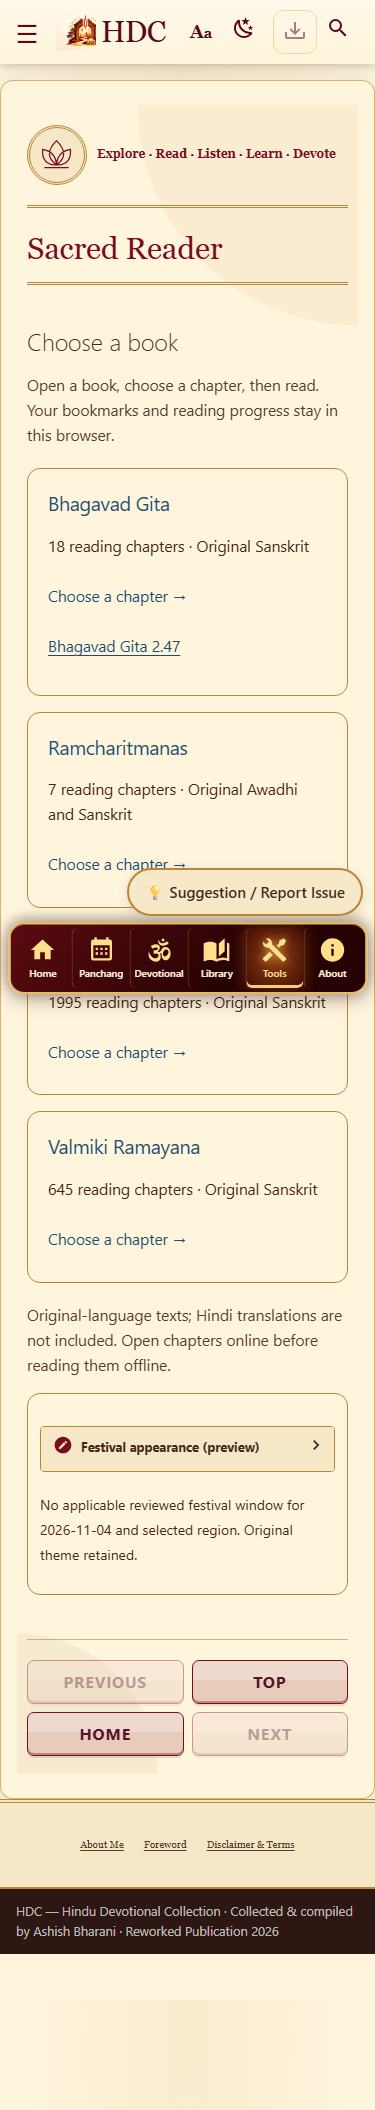
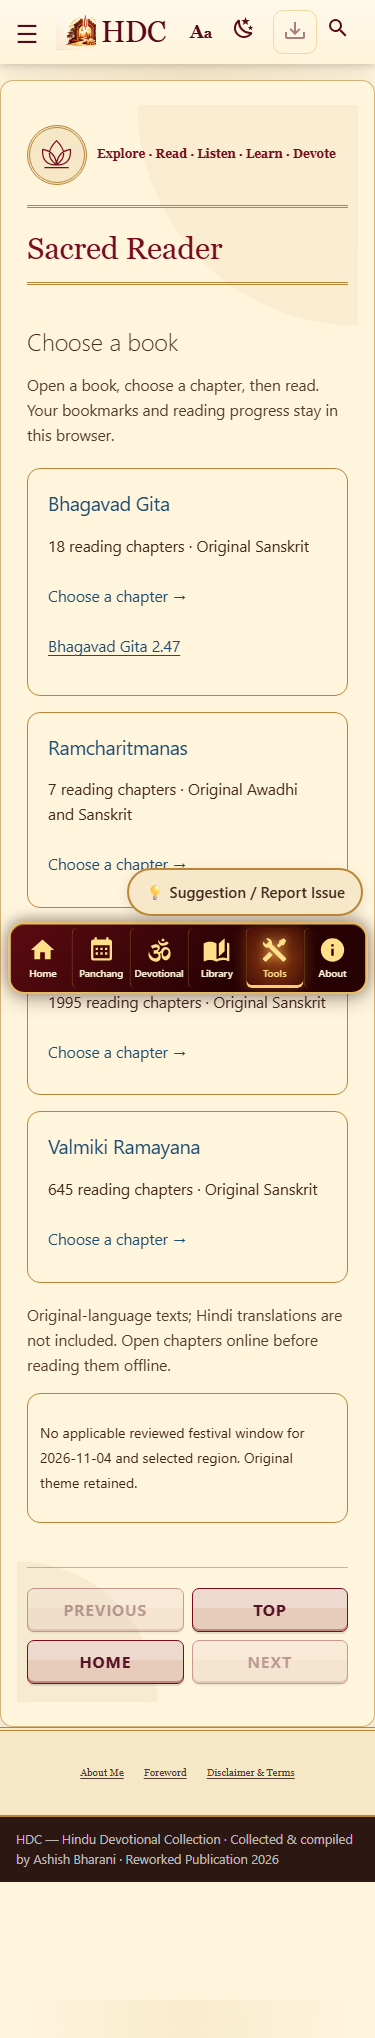
Open Reader options in offline upgrade regression

diff --git a/review/reader-epics-navigation-2026-11-04.md b/review/reader-epics-navigation-2026-11-04.md
@@ -57,3 +57,18 @@ screenshots are in scripts/fixtures/reader-cleanup-review. Catalogue/engine diff
 is empty and the built Reader runtime matches its source. Remaining existing
 regressions and final exact-head GitHub CI must pass before merging; this note
 records that pre-merge checkpoint and does not claim production deployment.
+
+## Latest-main integration checkpoint
+
+Main advanced with the approved retirement of Sanctuary and festival-preview
+controls. That main state is preserved in merge head 69df1e4. Its local strict
+build passed in 298.33 seconds. Fresh six-viewport/theme epic navigation,
+endpoint, legacy-link, bookmark and real offline checks passed; cleanup checks
+passed at 375/1440px and the after screenshots were refreshed.
+
+The fresh CI upgrade test reached the intentionally collapsed Reader options
+panel without opening it, so its search fill correctly timed out. The test now
+clicks the visible summary before filling; its offline interactivity, failed
+update, successful update, cache retirement and saved-state assertions are
+unchanged. That focused regression passes locally. Full exact-head CI remains
+a merge gate. No production code or budget was changed to accommodate the test.
